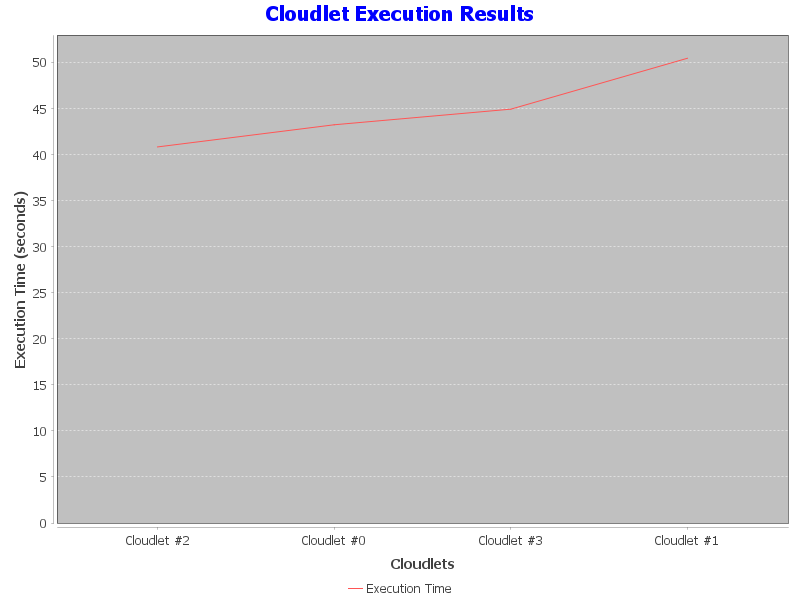
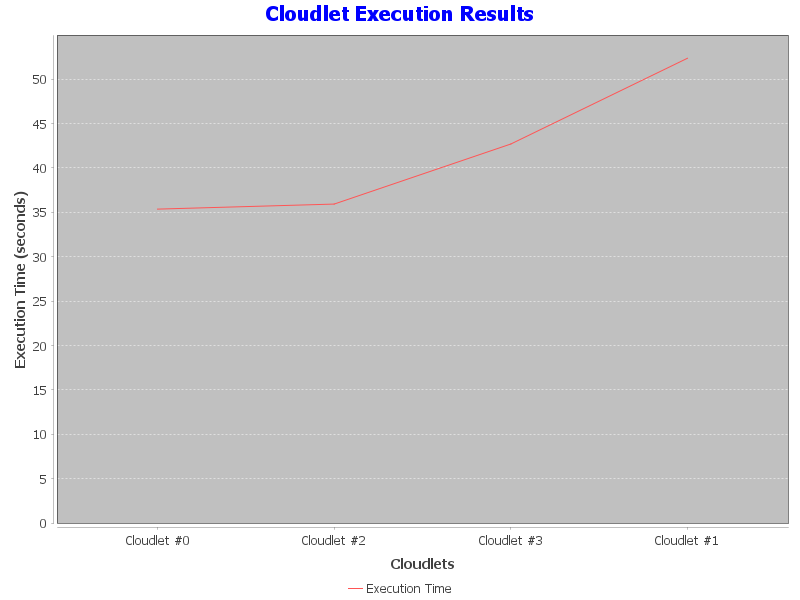
Added extra vms and cloudlets

diff --git a/modules/cloudsim-examples/src/main/java/org/cloudbus/cloudsim/examples/EnhancedMultiTierCloudSimulation.java b/modules/cloudsim-examples/src/main/java/org/cloudbus/cloudsim/examples/EnhancedMultiTierCloudSimulation.java
@@ -133,11 +133,11 @@ public class EnhancedMultiTierCloudSimulation {
 
         // Create VMs for different tiers
         vmList = new ArrayList<>();
-        for (int i = 0; i < 2; i++) {
+        for (int i = 0; i < 3; i++) {
             vmList.add(new Vm(i, brokerId, 1000, 1, 1024, 1000, 10000, "Xen", 
                 new CloudletSchedulerTimeShared()));
         }
-        for (int i = 2; i < 4; i++) {
+        for (int i = 3; i < 5; i++) {
             vmList.add(new Vm(i, brokerId, 2000, 2, 2048, 2000, 20000, "Xen", 
                 new CloudletSchedulerTimeShared()));
         }
@@ -145,7 +145,7 @@ public class EnhancedMultiTierCloudSimulation {
         // Create cloudlets with dynamic workloads
         cloudletList = new ArrayList<>();
         UtilizationModel stochasticModel = new UtilizationModelStochastic();
-        for (int i = 0; i < 4; i++) {
+        for (int i = 0; i < 5; i++) {
             long length = i < 2 ? (long) (Math.random() * 40000 + 20000) : (long) (Math.random() * 80000 + 60000);
             Cloudlet cloudlet = new Cloudlet(
                 i, 
